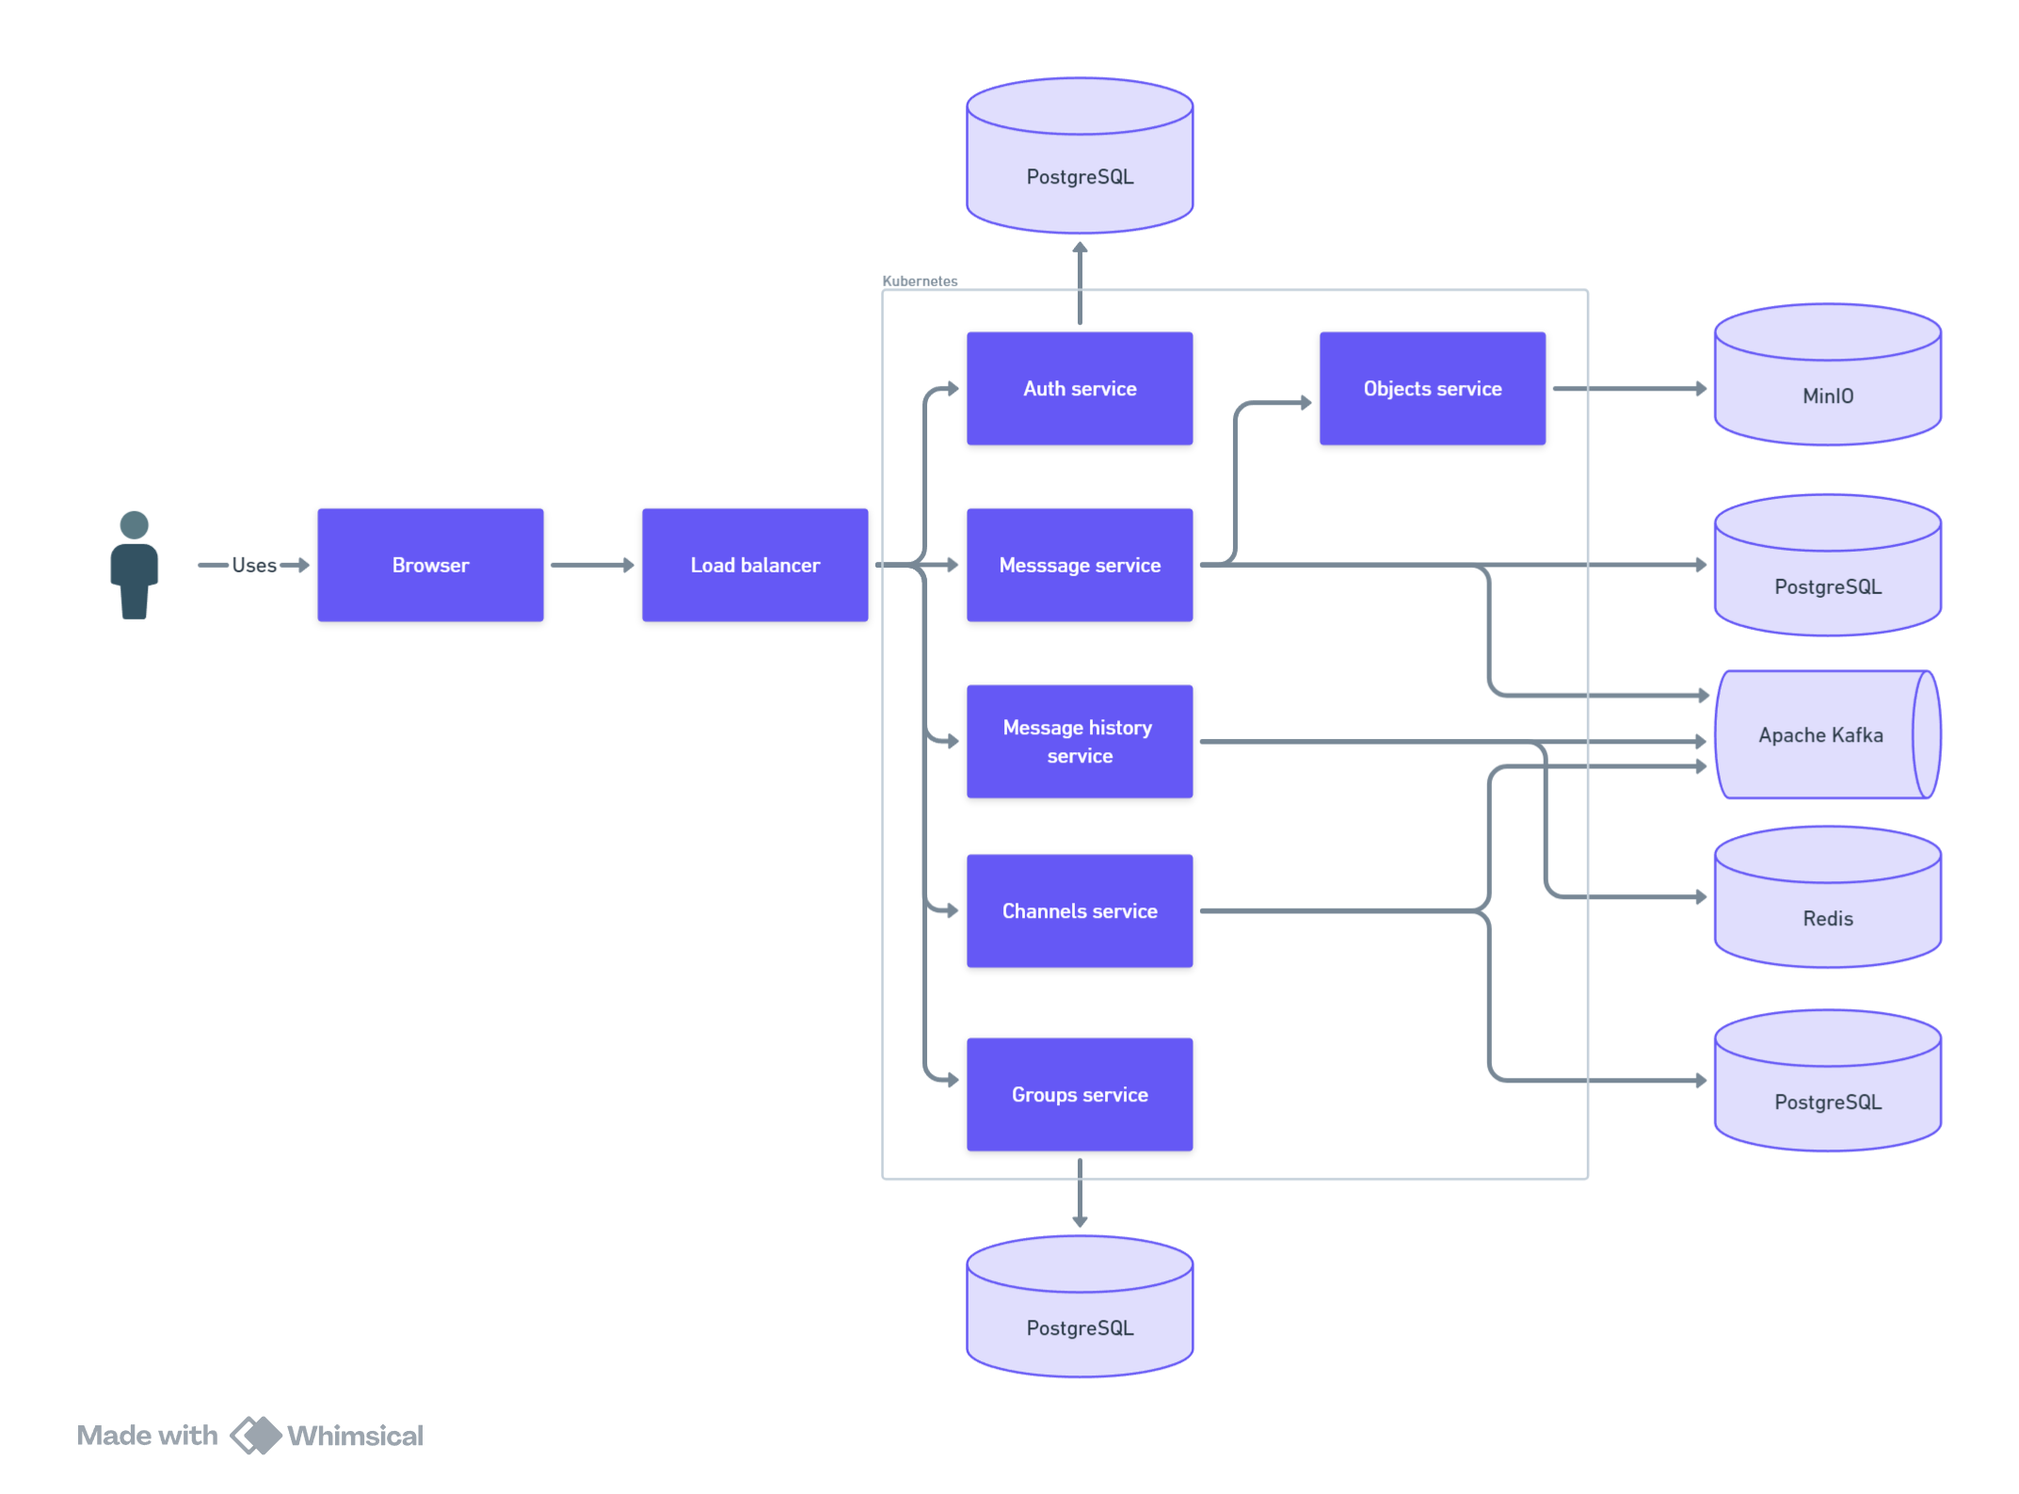
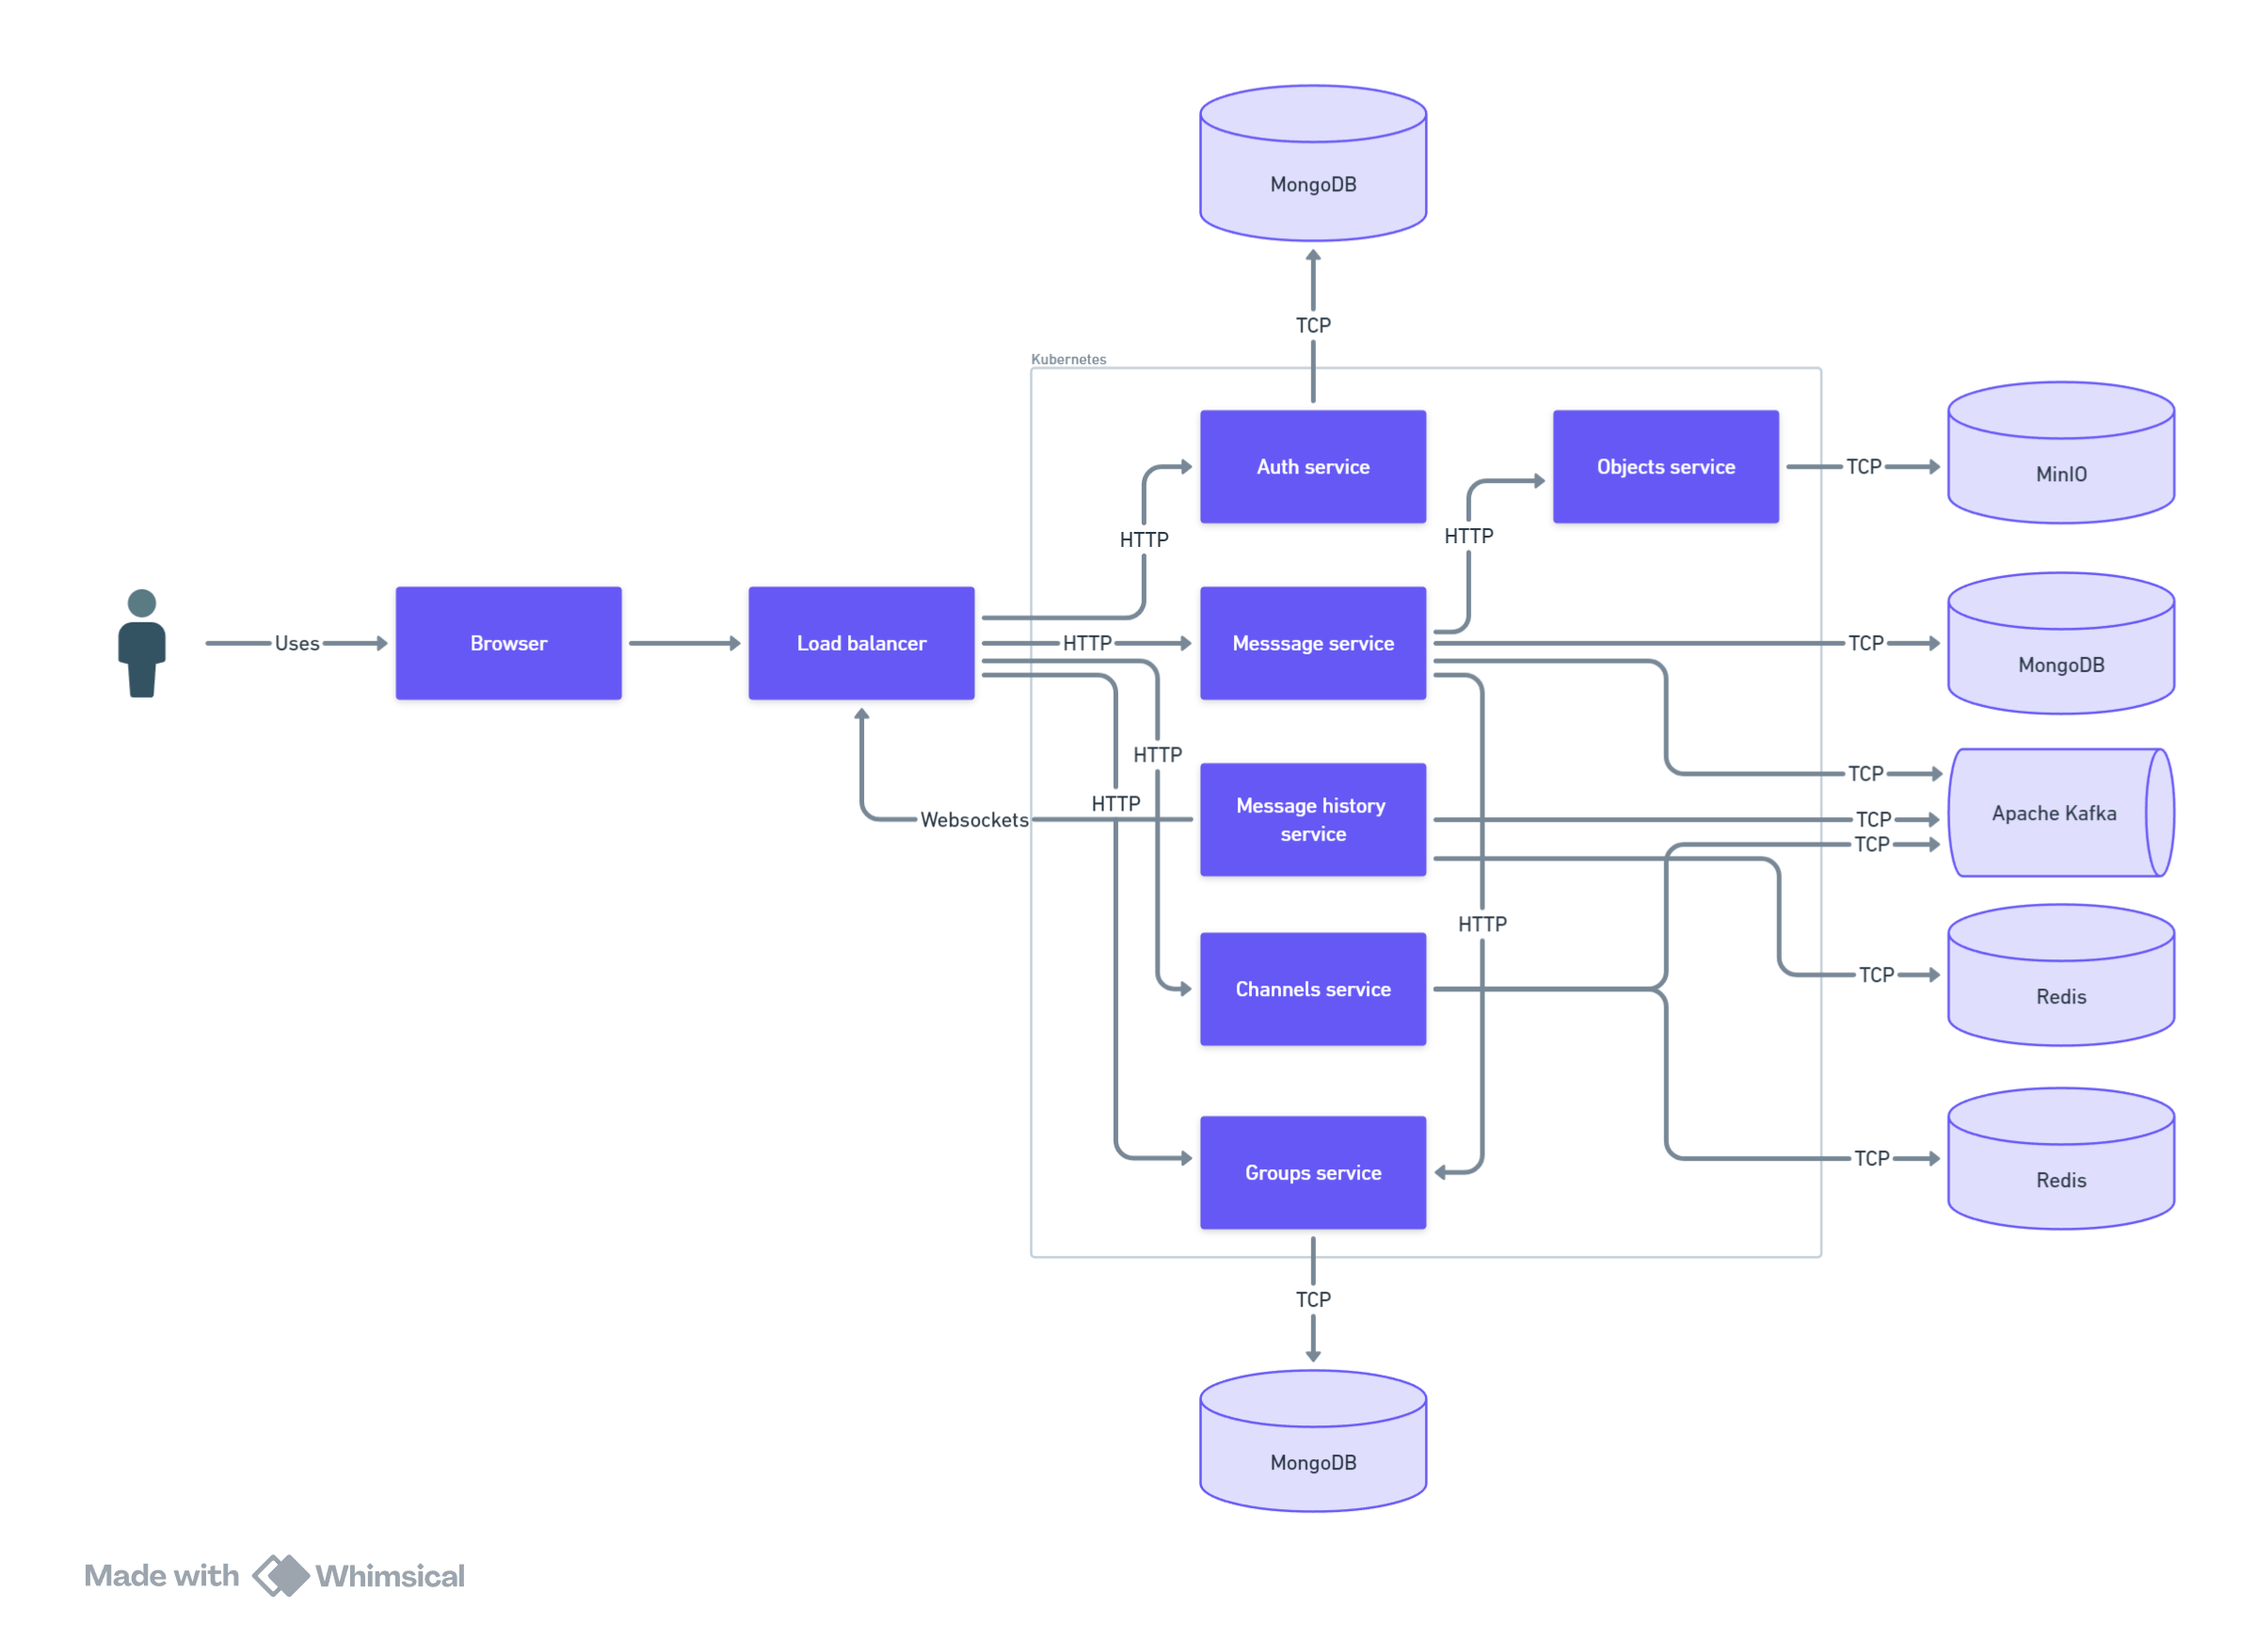
changed technologies and image

diff --git a/README_RU.md b/README_RU.md
@@ -128,9 +128,9 @@ Group service создаст группу и сохранит ее в group stor
 - Балансировщик нагрузки будет использоваться для распределения нагрузки между всеми сервисами.
 - В качестве брокера сообщений мы можем использовать Apache Kafka. Это распределенная платформа (распреленный лог сообщений), которая может обрабатывать триллионы событий в день. Кроме того, с помощью Kafka мы можем использовать различные паттерны, такие как pub/sub и очередь. Следующее преимущество заключается в том, что Kafka - это распределенный лог, и мы можем хранить все события в Kafka в течение определенного времени (в зависимости от настроек времени хранения).
 - Мы можем развернуть все сервисы в контейнерах Docker и оркестровать их с помощью Kubernetes. Он может работать с большим количеством контейнеров и автоматически масштабировать их в зависимости от потребностей.
-- Для message storage мы можем использовать PostgreSQL. Это RDBMS база данных, которая может хранить данные в структурированном виде и JSON документах. Она очень быстрая и может обрабатывать большие объемы данных. Мы можем использовать ее для хранения всех сообщений.
-- Для хранения данных каналов и групп мы также можем использовать PostgreSQL и хранить все данные каналов в отдельной коллекции в PostgreSQL.
-- В качестве хранилища сессий мы можем использовать Redis. Redis - это база данных с  значениями key value, которая может хранить данные в памяти и работает очень быстро.
+- Для хранения сообщений мы можем использовать MongoDB. Это база данных NoSQL, которая может хранить данные в документах JSON. Она очень быстрая и может обрабатывать большие объемы данных. Мы можем использовать ее для хранения всех сообщений. Вот дополнительная информация о его ограничениях - [Ограничения MongoDB] (https://www.mongodb.com/docs/manual/reference/limits/)
+- Для хранения каналов нам нужно лишь связать channel_id с коллекцией user_ids, и key value Redis - это идеальный кандидат для хранилища.
+- Мы также можем использовать Redis в качестве хранилища сессий. 
 - Для хранения изображений и других BLOB-файлов мы можем использовать хранилище S3, например MinIO.
 
 Здесь приведена схема с более подробными техническими характеристиками:
@@ -146,9 +146,9 @@ Group service создаст группу и сохранит ее в group stor
 Для масштабирования нашей системы необходимо сделать следующее:
 - Мы должны масштабировать наши сервисы горизонтально. Мы можем использовать Kubernetes для автоматического масштабирования сервисов в зависимости от нагрузки. 
 - Мы можем использовать партиции Kafka для распределения нагрузки между всеми брокерами Kafka. Kafka может обрабатывать большое количество данных и масштабироваться горизонтально за счет добавления новых брокеров.
-- Мы можем использовать партиционирование PostgreSQL, чтобы распределить нагрузку между всеми экземплярами PostgreSQL.
+- Мы могли бы использовать шардинг MongoDB для обработки нагрузки между всеми MongoDB. 
 - Хранилище S3 может обрабатывать большие объемы данных и по умолчанию может горизонтально масштабироваться путем добавления новых узлов хранения.
-- 
+
 Чтобы обеспечить высокую производительность около 3800 RPS для чтения и 350RPS для записи, нам нужно использовать следующие стратегии:
 - Мы должны использовать высокопроизводительные алгоритмы, используя Golang с горутинами для обработки большого количества запросов. Опять же, мы можем использовать Kubernetes для автоматического масштабирования наших сервисов в зависимости от нагрузки.
 - Для чтения сообщений мы можем использовать событийную согласованность. 

diff --git a/README.md b/README.md
@@ -128,9 +128,10 @@ Here is a more detailed diagram of the components:
 - Load balancer will be used to distribute the load between all the services.
 - We could use Apache Kafka as a message broker. It is a distributed streaming platform that can handle trillions of events a day. And also we could use different patterns like pub/sub and queue using Kafka. The next benefit is that Kafka is a distributed log and we can store all events in Kafka for a long time (depending on retention time settings).
 - We could deploy all services in Docker containers and orchestrate them using Kubernetes. It can handle a large number of containers and scale them automatically depending our needs.
-- For message storage we can use PostgreSQL. It is an RDBMS database that can store data in structured form and JSON documents. It is very fast and can handle large amounts of data. We can use it to store all messages.
-- For storing channels and groups data we also can use PostgreSQL and store all channels data in a separate collection in PostgreSQL.
-- We could use Redis as a session storage. Redis is a key-value database that can store data in memory and is very fast. We can use it to store the sessions of all users.
+- For message storage we can use MongoDB. It is an NoSQL database that can store data in JSON documents. It is very fast and can handle large amounts of data. We can use it to store all messages. Here is the additional information about its limits - [MongoDB limits] (https://www.mongodb.com/docs/manual/reference/limits/)
+- For storing groups data we also can use MongoDB and store all channels data in a separate collection in MongoDB.
+- For storing channels we only need to associate channel_id with collection of user_ids and its perfect candidate for key-value storage like Redis.
+- We could also could use Redis as a session storage. 
 - For storing images and other BLOBs we could use S3 storage like MinIO for example.
 
 Here is the diagram with more technical details:
@@ -146,7 +147,7 @@ To handle high availability we need use several strategies:
 To scale our system we should do the following:
 - We should scale our services horizontally. We can use Kubernetes to scale our services automatically depending on the load. 
 - We could use Kafka partitions to handle the load between all the Kafka brokers. Kafka can handle a large amount of data and can scale horizontally by adding more brokers.
-- We could use PostgreSQL sharding to handle the load between all the PostgreSQL instances. 
+- We could use MongoDB sharding to handle the load between all the MongoDB. 
 - S3 storage can handle a large amount of data and can scale horizontally by adding more storage nodes by default.
 
 To handle high performance about 3800 RPS for reading and 350RPS for writing we need to use the following strategies:
